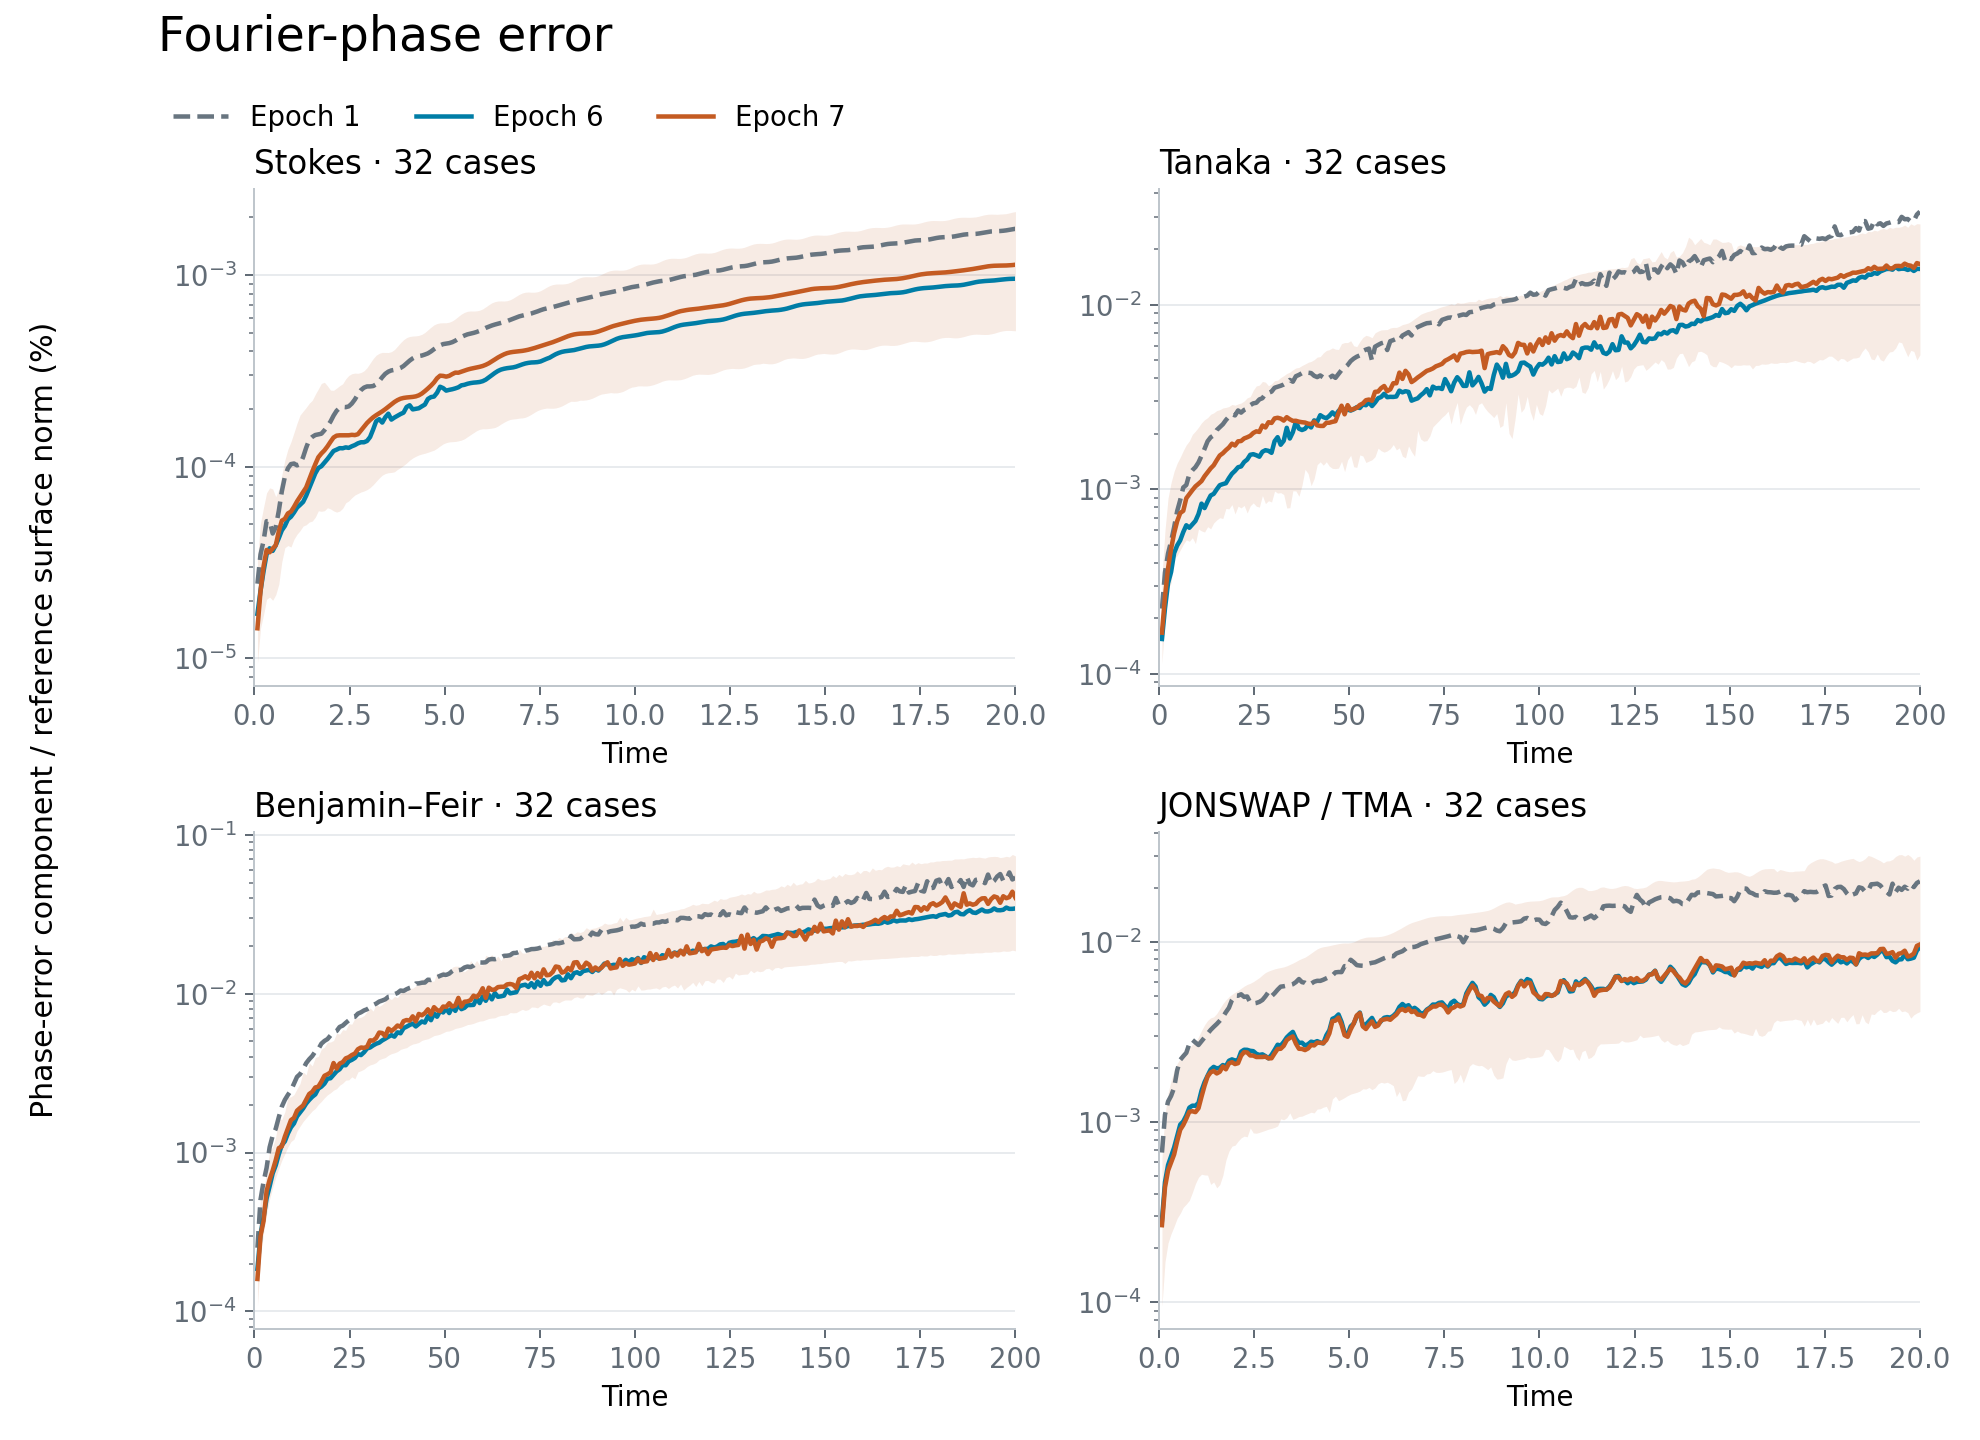
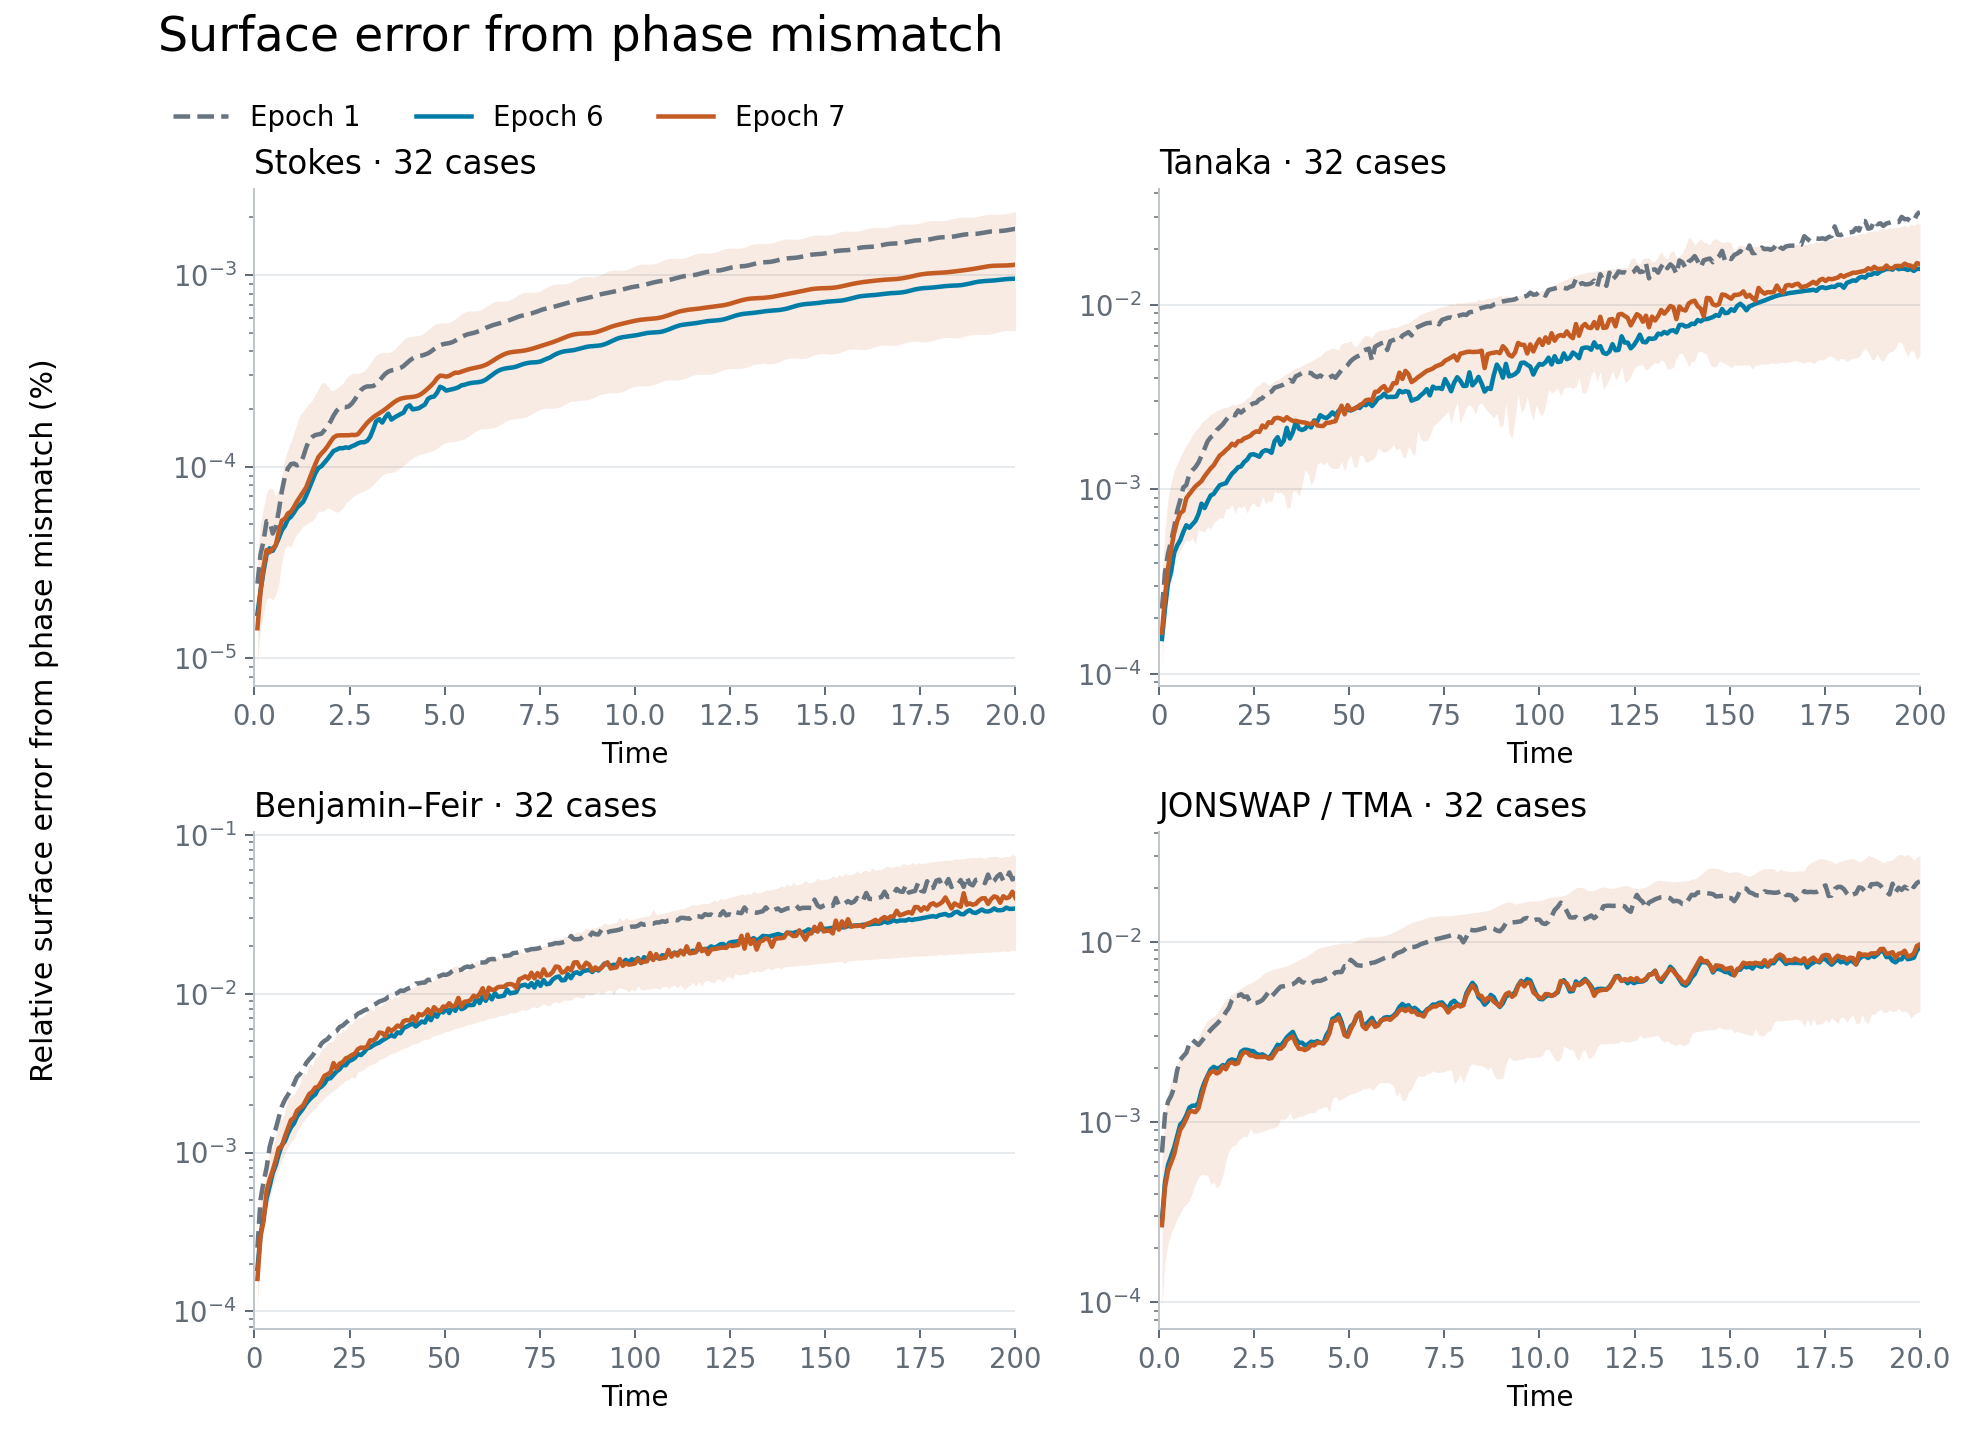
Clarify phase plot labels and record checkpoint diagnostics

Changed region(s): [[0.0, 0.2188, 0.0308, 0.7812], [0.0924, 0.0, 0.5237, 0.0625]]

diff --git a/paper-plots/plot_phase_diagnostics.py b/paper-plots/plot_phase_diagnostics.py
@@ -141,8 +141,8 @@ def main() -> None:
         drift_axes[0, 0].set_ylabel("Absolute translation drift\n(% of domain length)")
         drift_axes[1, 0].set_ylabel("Squared error removed\nby translation alignment (%)")
         save_figure(drift_fig, "19-hero-translation-drift", "Translation drift during the hero run", "")
-        save_figure(phase_fig, "20-hero-fourier-phase", "Fourier-phase error",
-                    "Phase-error component / reference surface norm (%)")
+        save_figure(phase_fig, "20-hero-fourier-phase", "Surface error from phase mismatch",
+                    "Relative surface error from phase mismatch (%)")
         save_figure(share_fig, "20b-hero-fourier-phase-share", "How much surface error comes from phase?",
                     "Phase share of squared surface error (%)")
         return

diff --git a/experiments/experiments-2026-10-15.md b/experiments/experiments-2026-10-15.md
@@ -10,3 +10,5 @@ Epoch 7 of the approved low-LR continuation completed; epoch 8 resumed automatic
 | 2026-10-15 | 01:54 | `paper-plots/figures/12c-ada-runtime-vs-error.{png,pdf}` | User requested a separate Ada-only comparison without RMS/context, rollout-supervised or spectral-DNO overlays. | Reused Figure 12's Ada classical measurements and epoch-7 EMA candidate coordinates in a standalone 2-by-2 layout. Only M1–M5, the M6 runtime line and the current candidate remain. Added a plotting flag to omit historical runtime-change annotations; documented the render command. | Candidate and classical simulation IDs and plotted coordinates checked against saved results; PNG visually inspected; Python compilation and diff check passed. Existing Figure 12 and Figure 12b unchanged. | CPU-only rendering 01:53–01:54; no training, rollout or timing run. | MERGE the requested clean Figure 12c. |
 | 2026-10-15 | 02:12 | `plot_phase_diagnostics.py --hero`; Figures 19–20 | User requested CPU-only plots of accumulated phase drift and an audit of whether the hero recipe targets it. | Added a saved-rollout mode comparing primary EMA epochs 1/6/7. Figure 19 plots absolute translation displacement and alignment-removable squared-error share for 32 Stokes and 11 isolated Tanaka cases, every tenth saved frame; Stokes displacements resolve periodic aliases using carrier wavelength. Figure 20 plots Fourier-phase relative-error magnitude and squared-error share for all 32 cases/family at every nonzero saved time. Epoch-7 terminal median alignment-removable shares S/isolatedT: 98.605/89.281%; Fourier shares S/T/BF/J: 98.689/85.434/84.874/54.414%. Verified active TG is local squared speed-direction loss, Tanaka-only, weight10 and sqrt(gh) normalization. All-family momentum matching weight .002574349830754761 is indirect phase control; MB weight6 sees complex error. Explicit Stokes-carrier, BF-sideband and coupled-modal penalties are inactive. Rollout endpoints receive data/MB/TG/momentum, with unchanged family masks, not an extra Hadamard evaluation. Base scheduled Hadamard remains active. | Saved trajectories finite; translation-removable share bounded by Fourier-phase share. Analytic translated-wave and amplitude-only examples pass Parseval, alignment and phase/amplitude separation checks. Python compilation and visual inspection of both figures passed. CPU only, no new rollouts, checkpoint changes or training changes. | CPU plotting and audit 02:08–02:12. | MERGE plots and documentation. Direct phase-speed targeting is not all-family in the current recipe; the plots distinguish absolute phase error from its fraction of total squared error. |
 | 2026-10-15 | 02:21 | Figures 12c, 20 and 20b: presentation refresh | The combined Fourier-phase figure was difficult to read; user also requested the older rollout-supervised network in the clean Ada comparison. | Split Figure 20 into separate 2-by-2 magnitude and squared-error-share figures, with independent time axes, epoch-1 dashed lines and only epoch-7 IQR shading. Added the old rollout-supervised Ada points to Figure 12c; retained exclusions of RMS/context and spectral DNO. | Unchanged saved phase statistics. All four restored timing/error coordinates match Figure 12 exactly. PNGs visually inspected, Python compilation and diff check passed. Figure 12 and translation Figure 19 unchanged. | CPU rendering/review 02:18–02:21; no new training, rollout or timing runs. | MERGE presentation-only changes. |
+| 2026-10-15 | 02:33 | Saved hero checkpoints: validation comparability and initial Stokes translation defect | Find inexpensive diagnostics that explain why longer training improves validation but can worsen phase drift, without changing the active run. | Source/log audit: epochs 1–2 inherited raw validation; only epochs 3–7 form a comparable EMA-validation series. E3 to E7 retained-band mean relative data error improves 21.96%, versus 0.905% for full-spectrum L2; family L2 metrics also include discarded modes. Fixed validation HD probes rule out epoch-to-epoch resampling as the explanation. E3 to E7 MB/momentum/HD improve 40.62/20.02/30.31%, whereas Tanaka TG rises 1.61%; none individually establishes rollout quality. On saved EMA Stokes initials, define delta_c=-dot(pred_q-ref_q,eta_x)/dot(eta_x,eta_x). Across 32 cases at each of epochs 1–7, Pearson correlation between T*delta_c and measured signed terminal displacement is .9768–.9935; fitted slopes .4812–.5485. Epoch5 to6 changes correlate .9991 with matching signs in31/32 cases; epoch6 to7 correlation .7638, matching30/32. Nevertheless initial relative-speed geometric means rank pooled Stokes terminal errors poorly across E3–E7 (Spearman .3), so this is not a validated replacement selection score. | Initial eta exactly equal and xi equal within1e-12; terminal translation uses continuous Fourier alignment with carrier-period alias removal. CPU reads saved primary EMA rollouts only. Current val_data_loss and full L2 are both mean relative norms, with different spectral bands; no squared-loss comparison. Correlations reuse the same cases and are diagnostic, not independent validation. | CPU checks 02:24–02:30; launcher95505 confirmed live, epoch8 at289496/737295 updates at02:30. | KEEP approved training and per-epoch EMA rollout evaluation unchanged. Retain epoch6 aggregate rollout best. Translation-direction error explains individual Stokes drift but alone does not justify a new loss or checkpoint rule. |
+| 2026-10-15 | 02:33 | Figure 20 axis wording | User found the phrase phase-error component divided by reference surface norm unclear. | Relabeled title to Surface error from phase mismatch and y axis to Relative surface error from phase mismatch (%). README gives a0.01% example and distinguishes this from Figure20b's fraction of squared prediction error. | Identical numerical curves and saved-case statistics; only Figure20 PNG/PDF regenerated. Figure20b and all other figures unchanged. Python compilation, visual inspection and diff check pass. | CPU rendering/review 02:31–02:33. | MERGE wording change; no training or inference change. |

diff --git a/paper-plots/README.md b/paper-plots/README.md
@@ -706,8 +706,10 @@ wavelength to resolve equivalent periodic alignments. These are accumulated
 displacements, not instantaneous speed errors.
 
 **20:** Include all 32 cases per family and every saved nonzero time, in four
-larger panels. Plot `100*sqrt(phase_energy/reference_energy)`, the phase
-component of relative surface L2 error, on logarithmic y axes.
+larger panels. The y axis, “Relative surface error from phase mismatch (%)”,
+measures `100*sqrt(phase_energy/reference_energy)` on a logarithmic scale.
+For example, 0.01% means the phase-related surface mismatch is 0.01% of the
+reference wave's L2 size, not 0.01% of the total prediction error.
 
 **20b:** Plot `100*phase_energy/total_error_energy`, the phase share of squared
 surface error, separately on linear 0–100% axes for the same cases and times.

diff --git a/EXPERIMENTS.md b/EXPERIMENTS.md
@@ -33,11 +33,11 @@ could not be recovered at all are in
 
 ## Dated logs
 
-97 files, 1584 rows.
+97 files, 1586 rows.
 
 | Date | Rows | File | Size |
 | --- | --- | --- | --- |
-| 2026-10-15 | 6 | [`experiments/experiments-2026-10-15.md`](experiments/experiments-2026-10-15.md) | 9 KB |
+| 2026-10-15 | 8 | [`experiments/experiments-2026-10-15.md`](experiments/experiments-2026-10-15.md) | 12 KB |
 | 2026-10-14 | 16 | [`experiments/experiments-2026-10-14.md`](experiments/experiments-2026-10-14.md) | 38 KB |
 | 2026-10-13 | 8 | [`experiments/experiments-2026-10-13.md`](experiments/experiments-2026-10-13.md) | 14 KB |
 | 2026-10-12 | 57 | [`experiments/experiments-2026-10-12.md`](experiments/experiments-2026-10-12.md) | 125 KB |
